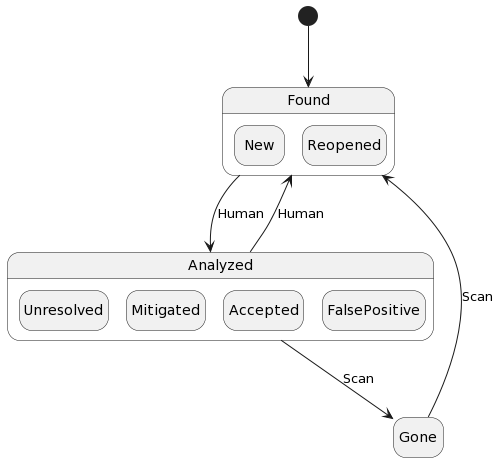
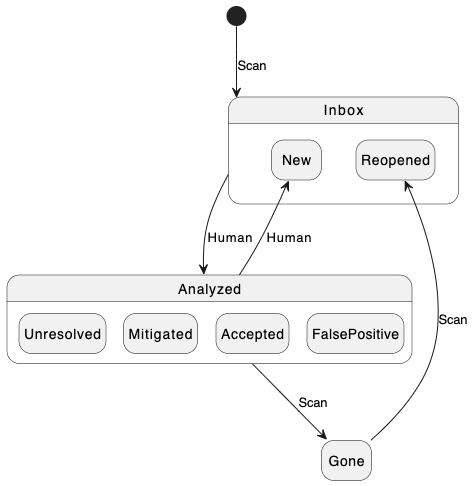
mote detail on data model esp events and status

Changed region(s): [[0.0, 0.0, 1.0, 1.0], [0.4716, 0.0, 0.5305, 0.0606], [0.5011, 0.1212, 0.56, 0.1515]]

diff --git a/README.md b/README.md
@@ -29,7 +29,7 @@ importer is responsible for separating fields that do not change over time from
 fields that do change. This may involve extracting a static portion of a dynamic
 field (e.g. removing a hash in a URL or a session-specific nonce).
 
-## Database
+## Data Model
 
 This schema is organized to avoid updating records whie retaining history over
 time such that it is always possible to see the active findings and their
@@ -38,24 +38,34 @@ date and time. This allows for a simple and familiar user interface to display
 the finding and allow a person to change status, add comments, and add
 references or links.
 
-There is no need to close or delete a finding.
+### Deduplication
 
 Deduplication is a central feature of this schema. The tool-specific importer
 deduplicates findings, while the ingester deduplicates strings and text. The
 pattern of referencing findings, text, and strings by ID keeps redundancy
 and bloat to a minimum.
 
-![schema](schema.png)
+### Schema
 
-Note: I realize I have omitted severity here. This could
-be another event type or the analysis event could add a severity and/or CVSS
-field.
+[![schema](schema.png)](vuln-db.puml)
 
-## Status
+A `Finding` can recur over time or across targets. A `ScanFinding` is a found
+instance of a `Finding` within a `Scan`. There is no need to close or delete a
+finding.
 
-![schema](state.png)
+Instead of modifying findings, `Event` records are attached to scan findings.
+Events types include `Severity`, `Comment`, and `AttachTicket`. References to
+links other than tickets can come in from tool-provided vulnerability
+descriptions and included in comments.
 
-The ingester API would set status to Reopened, while a human could set it to New.
+### Status
+
+[![status](state.png)](vuln-status.puml)
+
+While ingesting scan data, the ingester creates `New` findings, sets status to
+`Gone` when they disappear, and sets status to `Reopened` when they reappear.
+
+Humans can set status to any of the Analyzed statuses or New.
 
 ## Triage
 
